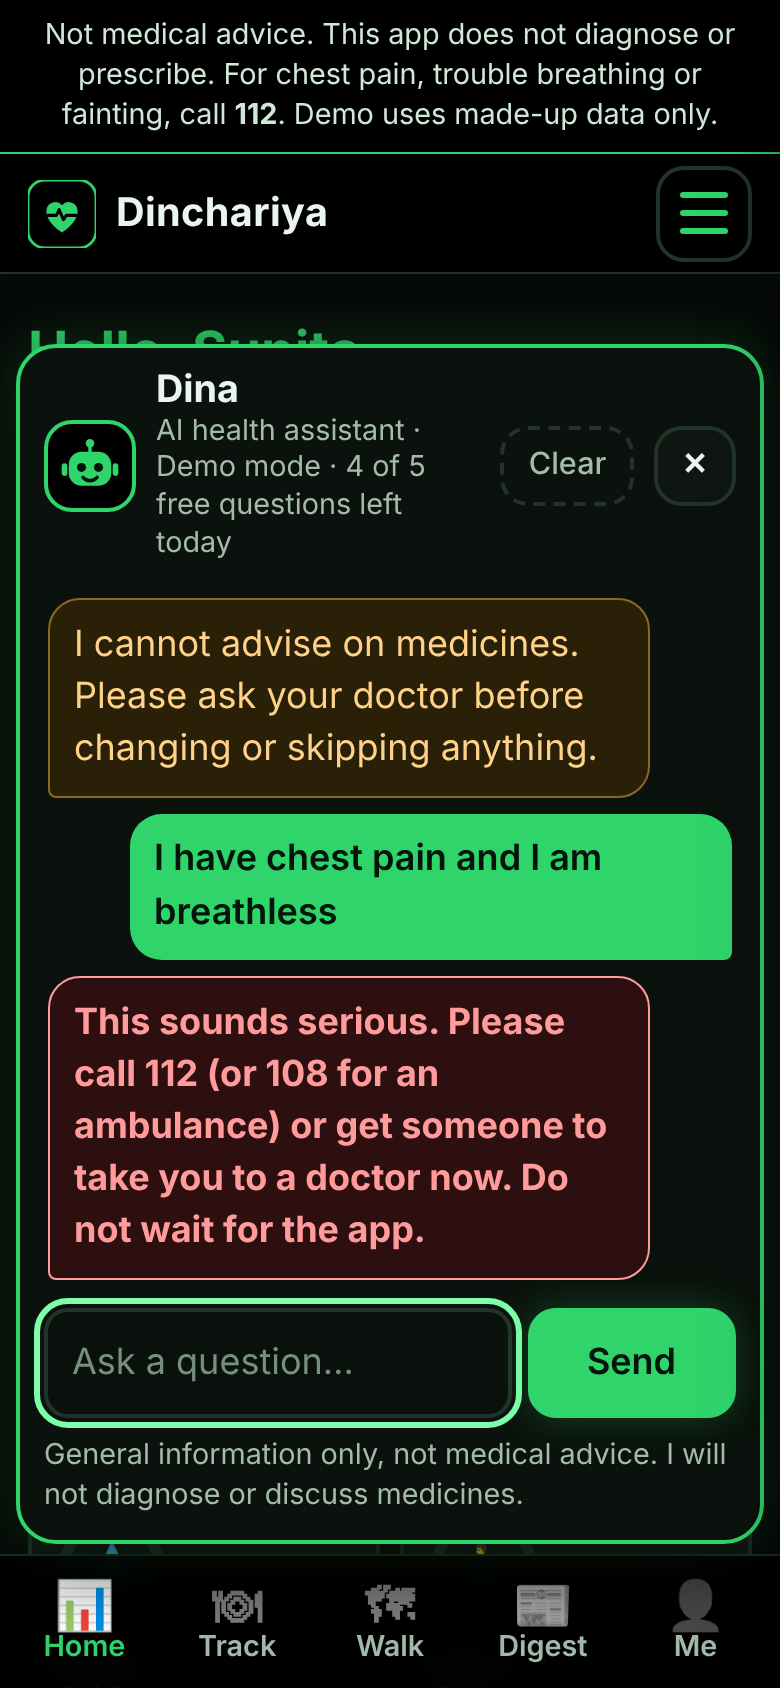
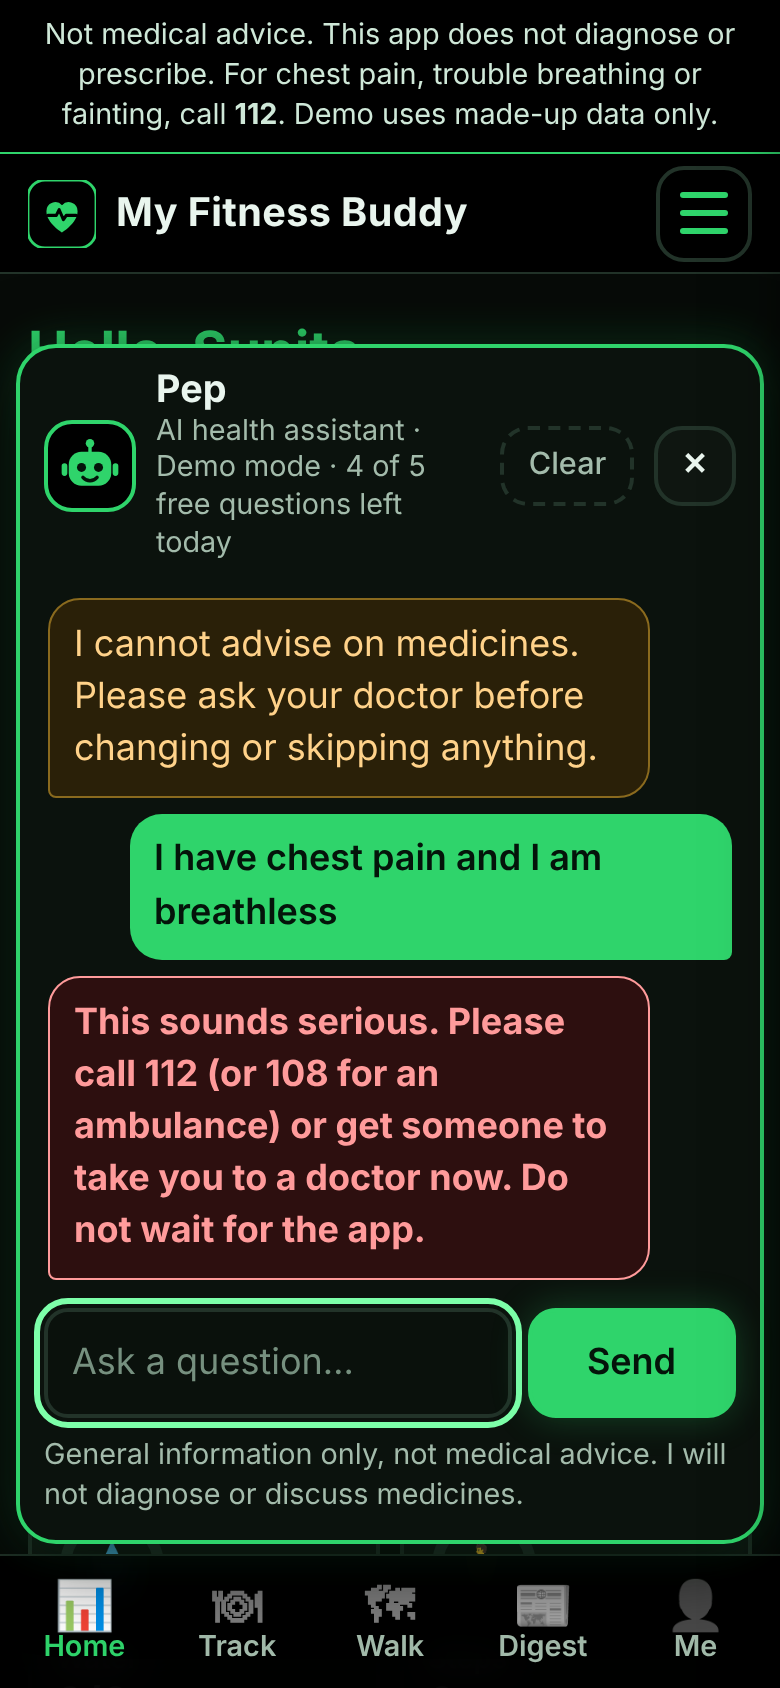
Rename app to My Fitness Buddy and chatbot to Pep; tidy chat header
Claude-Session: https://claude.ai/code/session_01KefykX8PCZb4duXx1vCz83

Changed region(s): [[0.1538, 0.0924, 0.5846, 0.154], [0.2154, 0.2156, 0.3077, 0.2464]]

diff --git a/index.html b/index.html
@@ -4,8 +4,8 @@
 <meta charset="utf-8">
 <meta name="theme-color" content="#000000">
 <meta name="viewport" content="width=device-width,initial-scale=1">
-<title>Dinchariya: daily health check-in</title>
-<meta name="description" content="Say your day in your own words. Dinchariya logs it, adapts your walking goal and nudges you gently.">
+<title>My Fitness Buddy: your daily health companion</title>
+<meta name="description" content="Say your day in your own words. My Fitness Buddy logs it, adapts your walking goal, tracks steps, water, calories and protein, and nudges you gently. Chat with Pep, your AI health assistant.">
 <link rel="stylesheet" href="vendor/leaflet/leaflet.css">
 <link rel="stylesheet" href="style.css">
 </head>
@@ -15,7 +15,7 @@
 <header id="appbar" class="appbar" hidden>
   <div class="brandrow">
     <svg class="mini-logo" viewBox="0 0 48 48" aria-hidden="true"><rect width="48" height="48" rx="12" fill="#000" stroke="#2fd46b" stroke-width="2"/><path d="M24 37s-11-6.6-11-15a6.3 6.3 0 0 1 11-4.2A6.3 6.3 0 0 1 35 22c0 8.4-11 15-11 15z" fill="#2fd46b"/><path d="M14 25h6l2-4 3 7 2-3h7" fill="none" stroke="#000" stroke-width="2.2" stroke-linecap="round" stroke-linejoin="round"/></svg>
-    <span class="brandname">Dinchariya</span><span id="pro-chip" class="prochip" hidden>PRO</span>
+    <span class="brandname">My Fitness Buddy</span><span id="pro-chip" class="prochip" hidden>PRO</span>
   </div>
   <button id="menu-btn" class="menu" type="button" aria-label="Open menu" aria-expanded="false" aria-controls="drawer"><span></span><span></span><span></span></button>
 </header>
@@ -49,7 +49,7 @@
   <section id="onboard" class="welcome" hidden>
     <div class="hero">
       <svg class="logo" viewBox="0 0 48 48" aria-hidden="true"><rect width="48" height="48" rx="12" fill="#000" stroke="#2fd46b" stroke-width="2"/><path d="M24 37s-11-6.6-11-15a6.3 6.3 0 0 1 11-4.2A6.3 6.3 0 0 1 35 22c0 8.4-11 15-11 15z" fill="#2fd46b"/><path d="M14 25h6l2-4 3 7 2-3h7" fill="none" stroke="#000" stroke-width="2.2" stroke-linecap="round" stroke-linejoin="round"/></svg>
-      <div class="brand">Dinchariya</div>
+      <div class="brand">My Fitness Buddy</div>
       <h1 data-t="onb_h">Your day, in your own words.</h1>
       <p class="lead" data-t="onb_lead">Tell me about your day, the way you would tell family. I will keep the notes.</p>
     </div>
@@ -91,7 +91,7 @@
         <button id="q-water" type="button"><span>💧</span>+1 glass</button>
         <button id="q-steps" type="button"><span>🚶</span>+1,000 steps</button>
         <button id="q-log" type="button"><span>🍽</span>Log food</button>
-        <button id="q-ask" type="button"><span>🤖</span>Ask AI</button>
+        <button id="q-ask" type="button"><span>🤖</span>Ask Pep</button>
       </section>
 
       <button class="card rewardtile" id="rewardcard" data-go="rewards" type="button"></button>
@@ -306,14 +306,14 @@
   <button data-go="me" type="button"><i>👤</i><span>Me</span></button>
 </nav>
 
-<button id="chat-fab" class="fab" type="button" aria-label="Open AI health assistant" aria-expanded="false" aria-controls="chatpanel" hidden>
-  <span class="botlogo"><svg viewBox="0 0 48 48" aria-hidden="true" focusable="false"><rect x="4" y="22" width="4" height="9" rx="2" fill="#2fd46b"/><rect x="40" y="22" width="4" height="9" rx="2" fill="#2fd46b"/><path d="M24 11v3" stroke="#2fd46b" stroke-width="2.4" stroke-linecap="round"/><circle cx="24" cy="8" r="3" fill="#2fd46b"/><rect x="9" y="14" width="30" height="24" rx="9" fill="#2fd46b"/><circle cx="18" cy="25" r="3.2" fill="#04140a"/><circle cx="30" cy="25" r="3.2" fill="#04140a"/><path d="M19 32c1.4 1.6 3.2 2.4 5 2.4s3.6-.8 5-2.4" stroke="#04140a" stroke-width="2.4" fill="none" stroke-linecap="round"/></svg></span><span class="faglabel">Ask AI</span>
+<button id="chat-fab" class="fab" type="button" aria-label="Open Pep, your AI health assistant" aria-expanded="false" aria-controls="chatpanel" hidden>
+  <span class="botlogo"><svg viewBox="0 0 48 48" aria-hidden="true" focusable="false"><rect x="4" y="22" width="4" height="9" rx="2" fill="#2fd46b"/><rect x="40" y="22" width="4" height="9" rx="2" fill="#2fd46b"/><path d="M24 11v3" stroke="#2fd46b" stroke-width="2.4" stroke-linecap="round"/><circle cx="24" cy="8" r="3" fill="#2fd46b"/><rect x="9" y="14" width="30" height="24" rx="9" fill="#2fd46b"/><circle cx="18" cy="25" r="3.2" fill="#04140a"/><circle cx="30" cy="25" r="3.2" fill="#04140a"/><path d="M19 32c1.4 1.6 3.2 2.4 5 2.4s3.6-.8 5-2.4" stroke="#04140a" stroke-width="2.4" fill="none" stroke-linecap="round"/></svg></span><span class="faglabel">Ask Pep</span>
 </button>
 
 <section id="chatpanel" class="chatpanel" role="dialog" aria-modal="false" aria-labelledby="h-chat" hidden>
   <header class="cphead">
     <span class="botlogo big"><svg viewBox="0 0 48 48" aria-hidden="true" focusable="false"><rect x="4" y="22" width="4" height="9" rx="2" fill="#2fd46b"/><rect x="40" y="22" width="4" height="9" rx="2" fill="#2fd46b"/><path d="M24 11v3" stroke="#2fd46b" stroke-width="2.4" stroke-linecap="round"/><circle cx="24" cy="8" r="3" fill="#2fd46b"/><rect x="9" y="14" width="30" height="24" rx="9" fill="#2fd46b"/><circle cx="18" cy="25" r="3.2" fill="#04140a"/><circle cx="30" cy="25" r="3.2" fill="#04140a"/><path d="M19 32c1.4 1.6 3.2 2.4 5 2.4s3.6-.8 5-2.4" stroke="#04140a" stroke-width="2.4" fill="none" stroke-linecap="round"/></svg></span>
-    <div class="cptitle"><h2 id="h-chat">Dina</h2><span class="cpsub" id="cp-sub">AI health assistant · Demo mode</span></div>
+    <div class="cptitle"><h2 id="h-chat">Pep <span class="role">AI health assistant</span></h2><span class="cpsub" id="cp-sub">Demo mode</span></div>
     <button id="chat-clear" class="ghost mini" type="button">Clear</button>
     <button id="chat-close" class="mini" type="button" aria-label="Close assistant">✕</button>
   </header>

diff --git a/engine.js b/engine.js
@@ -1,5 +1,5 @@
 /*
- * Dinchariya engine: shared by the browser (demo mode) and the serverless
+ * My Fitness Buddy engine: shared by the browser (demo mode) and the serverless
  * function (safety layer + output validation for live AI).
  *
  * Everything health-critical here is plain deterministic code, NOT an LLM:
@@ -586,8 +586,8 @@
     const n = name || (lang === 'hi' ? 'Aaj' : 'Today');
     const kcal = sum.kcalHi ? `${sum.kcalLo}-${sum.kcalHi} kcal (rough)` : '-';
     const flag = sum.flags.length ? (lang === 'hi' ? '\nDhyaan: kuch symptoms note kiye gaye, doctor ko batana hai.' : '\nNote: symptoms were logged, please check with the doctor.') : '';
-    if (lang === 'hi') return `${n} ka din:\nPaani: ${sum.water}/${goals.water} glass\nWalk: ${sum.walkMin}/${goals.walk} min\nKhana: ${sum.meals.length} items, ${kcal}${flag}\n(Dinchariya app - medical salah nahi)`;
-    return `${n}'s day:\nWater: ${sum.water}/${goals.water} glasses\nWalk: ${sum.walkMin}/${goals.walk} min, ${sum.steps} steps, ${sum.km} km\nFood: ${sum.meals.length} items, ${kcal}${sum.protHi ? `\nProtein: about ${sum.protLo}-${sum.protHi} g (rough)` : ''}${flag}\n(Dinchariya app - not medical advice)`;
+    if (lang === 'hi') return `${n} ka din:\nPaani: ${sum.water}/${goals.water} glass\nWalk: ${sum.walkMin}/${goals.walk} min\nKhana: ${sum.meals.length} items, ${kcal}${flag}\n(My Fitness Buddy - medical salah nahi)`;
+    return `${n}'s day:\nWater: ${sum.water}/${goals.water} glasses\nWalk: ${sum.walkMin}/${goals.walk} min, ${sum.steps} steps, ${sum.km} km\nFood: ${sum.meals.length} items, ${kcal}${sum.protHi ? `\nProtein: about ${sum.protLo}-${sum.protHi} g (rough)` : ''}${flag}\n(My Fitness Buddy - not medical advice)`;
   }
 
   return { proteinTarget, kcalReference, SLOTS, kmFromSteps, STEP_KM, STEPS_PER_MIN, answerQuery, parse, analyze, assessSafety, safetyMessage, guardrail, fromAI, summarize, adaptiveWalkGoal, nudge, familySummary, dayKey, DEFAULT_GOALS, FOODS };

diff --git a/style.css b/style.css
@@ -175,7 +175,7 @@ select{width:100%;font:inherit;padding:12px;border:2px solid var(--line);border-
 .cptitle{flex:1;min-width:0}.cptitle h2{margin:0;font-size:1.05rem;line-height:1.2}.cpsub{display:block;font-size:.8rem;color:var(--mut);line-height:1.3}
 .chatpanel .chatlog{flex:1;max-height:none;min-height:0}
 .chatpanel .chatlog:empty{display:flex;flex:1}
-.chatpanel .chatlog:empty::before{content:"Hi! I can read your day and answer simple questions about water, steps, food and protein.";color:var(--mut);padding:10px;font-size:.95rem}
+.chatpanel .chatlog:empty::before{content:"Hi, I'm Pep! I can read your day and answer simple questions about water, steps, food and protein.";color:var(--mut);padding:10px;font-size:.95rem}
 .chatpanel .chips{margin:4px 0}.chatpanel .chips button{min-height:40px}
 .cpform{margin-top:4px}
 .msg.bot{position:relative}
@@ -213,3 +213,5 @@ select{width:100%;font:inherit;padding:12px;border:2px solid var(--line);border-
 .freebadge{display:inline-block;margin:0 0 8px;padding:4px 12px;border-radius:99px;background:#0b2415;border:1px solid #1f7a45;color:var(--pri);font-weight:700;font-size:.9rem}
 .plan.free{border-color:#1f7a45}.plan.free.current{background:#0b1f14}
 .plan ul{margin:2px 0 4px;padding-left:1.1em;color:var(--mut);font-size:.95rem}
+
+.cptitle h2 .role{display:block;font-size:.8rem;font-weight:500;color:var(--mut);white-space:normal}

diff --git a/api/ask.js b/api/ask.js
@@ -4,7 +4,7 @@
 const E = require('../engine.js');
 const MODEL = process.env.CLAUDE_MODEL || 'claude-haiku-5-5';
 
-const SYSTEM = `You are the question-answering helper inside "Dinchariya", a daily health-habit app for older adults.
+const SYSTEM = `You are Pep, the friendly question-answering helper inside "My Fitness Buddy", a daily health-habit app for older adults.
 Scope: water, walking (steps, distance, minutes), calories and protein logged today (always rough ranges, never exact; if no protein_target_g is available say the profile is incomplete), simple food/portion questions, and the person's own day. Use the tools to read the person's data whenever a question is about THEIR day, goal or progress; never guess their numbers.
 HARD RULES: never diagnose or name a disease they might have; never advise on medicines, insulin or doses; never say a symptom is harmless; for medical or condition-specific questions say you cannot advise and suggest their doctor or a dietitian; any emergency sign (chest pain, trouble breathing, fainting, one-sided weakness, severe bleeding) means: call 112 now.
 Style: plain English, at most 3 short sentences, no lists, no emoji, no lectures. If you do not know, say so briefly.`;

diff --git a/app.js b/app.js
@@ -1,7 +1,7 @@
 (function () {
   'use strict';
   const E = window.HealthEngine, TP = window.HealthTips, W = window.HealthWalk, PL = window.HealthPlans;
-  const KEY = 'dinchariya.v1';
+  const KEY = 'dinchariya.v1'; // storage key kept from the first version so saved notes survive the rename
   const $ = (s) => document.querySelector(s);
   const $$ = (s) => [...document.querySelectorAll(s)];
   const GLASS_ML = 250;
@@ -412,7 +412,7 @@
   function updateChatMeta() {
     const left = Math.max(0, PL.FREE.aiPerDay - aiUsed());
     const t = $('#cp-sub'); if (!t) return;
-    t.textContent = 'AI health assistant · ' + (live ? 'Live AI' : 'Demo mode') + (isPrem() ? ' · Premium' : ` · ${left} of ${PL.FREE.aiPerDay} free questions left today`);
+    t.textContent = (live ? 'Live AI' : 'Demo mode') + (isPrem() ? ' · Premium' : ` · ${left}/${PL.FREE.aiPerDay} free today`);
     $('#chat-upsell').hidden = isPrem() || left > 0;
   }
   function renderPro() {

diff --git a/api/coach.js b/api/coach.js
@@ -6,7 +6,7 @@ const E = require('../engine.js');
 
 const MODEL = process.env.CLAUDE_MODEL || 'claude-haiku-5-5';
 
-const SYSTEM = `You are the logging assistant inside "Dinchariya", a daily health-habit app for Indian adults aged 60+ who speak English, Hindi or Hinglish.
+const SYSTEM = `You are the logging assistant inside "My Fitness Buddy", a daily health-habit app for Indian adults aged 60+ who speak English, Hindi or Hinglish.
 Your job: turn what the person says (or a photo of their plate) into a structured log, and write ONE short, warm reply.
 
 HARD RULES (never break):

diff --git a/REPORT.md b/REPORT.md
@@ -1,4 +1,4 @@
-# Dinchariya: report (MAI-594 individual project)
+# My Fitness Buddy: report (MAI-594 individual project)
 
 > **Status of this draft.** Q3, Q4 and the build parts of Q5 are written from the actual code and test runs. **Q1, Q2 (evidence), and the Q5 user test need real people and real reviews; they are marked `TODO` and must be completed by the student, not invented.** Word count must stay within 2,500 (excluding tables).
 
@@ -78,7 +78,7 @@
 | F05 | Progress tracker | **Build now** (water/walk/food tiles) | Fasting tracker, supplements and reward points: **Never** (selling products to patients is a conflict of interest) |
 | F06 | Sleep tracking | **Later** | Not in the customer's doctor's advice; adds input burden |
 | F07 | Challenges, motivational videos | **Never** | Licensing (D09), and streak pressure is a known churn/guilt cause |
-| F08 | AI health coach chatbot | **Build now, reshaped** | A floating bot button on the left of every screen opens "Dina", a short-answer assistant that reads the user's own day; it is not an open chat, never diagnoses, and sends emergencies to 112 |
+| F08 | AI health coach chatbot | **Build now, reshaped** | A floating bot button on the left of every screen opens "Pep", the AI assistant, a short-answer assistant that reads the user's own day; it is not an open chat, never diagnoses, and sends emergencies to 112 |
 | F09 | Catch-up planning | **Build now, softened** | Missed walk shrinks tomorrow's goal instead of punishing |
 | F10 | Reports | **Build now (minimal)** | One-tap WhatsApp daily summary instead of PDFs |
 | F11 | Wearables | **Later** | D05 clunky; her phone and her voice suffice |

diff --git a/README.md b/README.md
@@ -1,4 +1,4 @@
-# Dinchariya: a daily health check-in you can just talk to
+# My Fitness Buddy: a daily health check-in you can just talk to
 
 **Live app:** `TODO: paste your deployed link here` (Vercel = live AI + demo fallback; GitHub Pages = demo mode only)
 
